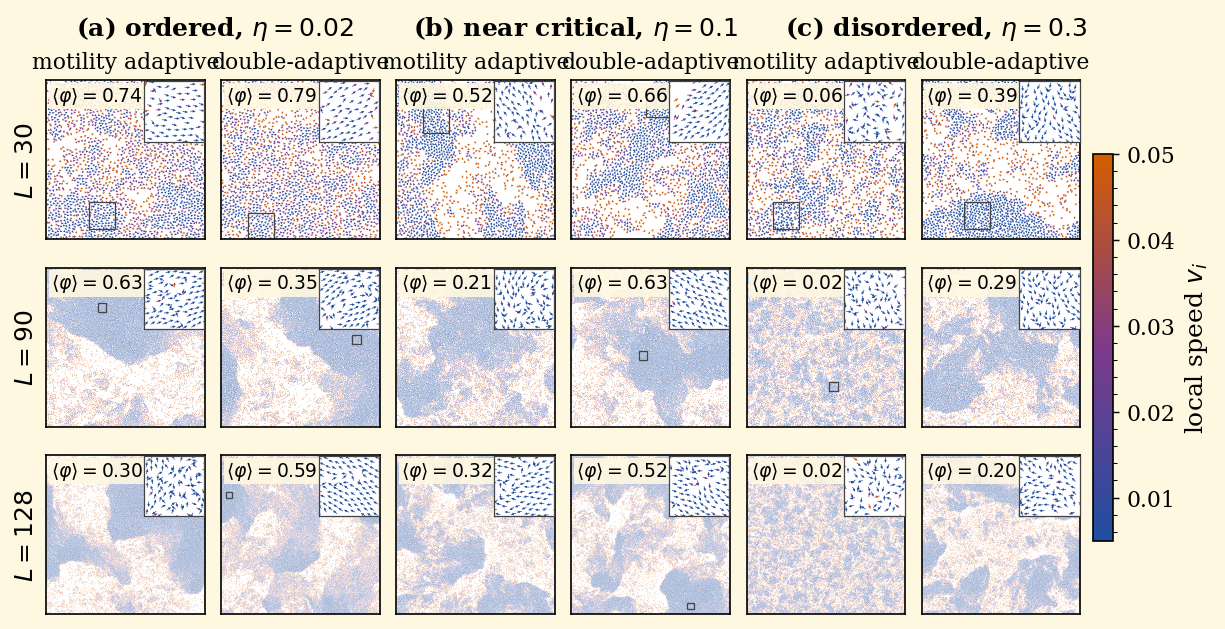
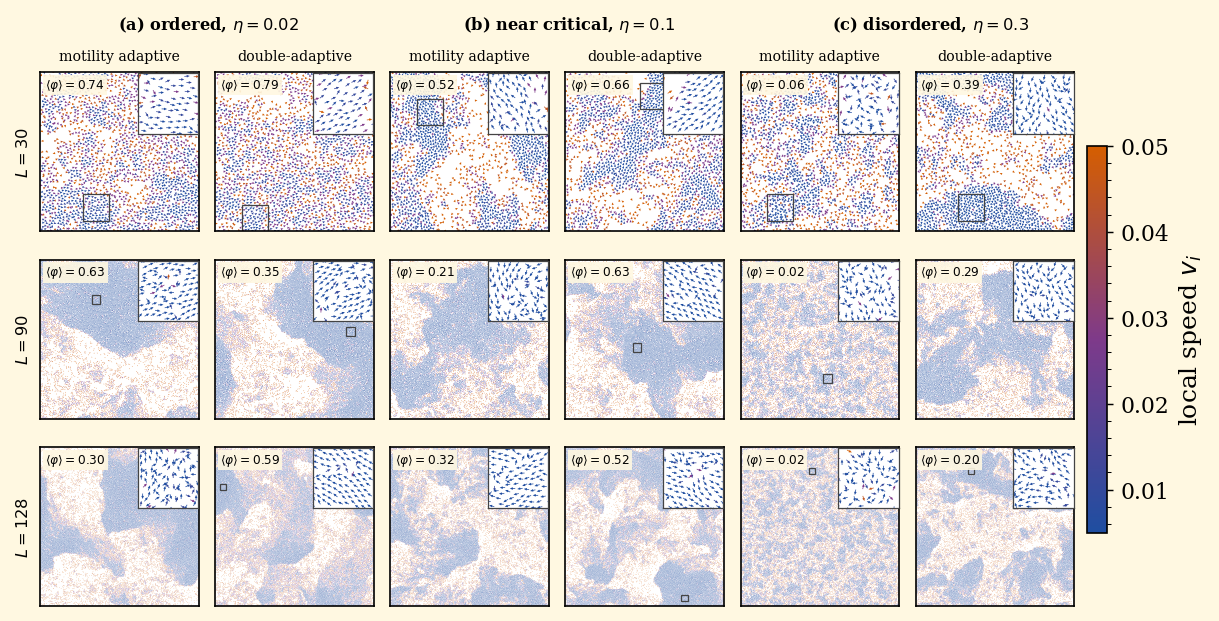
fig: Fig.2 shrink subpanel labels and subtitles 35%
Reduce the mode/L/<phi>/group-header label fonts by 35% (x0.65) from the
previous +50% sizes; the enlarged local-speed colorbar is kept.

diff --git a/src/make_figures.py b/src/make_figures.py
@@ -629,13 +629,13 @@ def fig_double_snapshot(npz_path: Path):
                     # Mode name on the top row only; size label on the
                     # leftmost column only (no repeats elsewhere).
                     if iL == 0:
-                        ax.set_title(_disp(mode_labels[im]), fontsize=10.5)
+                        ax.set_title(_disp(mode_labels[im]), fontsize=6.8)
                     if col == 0:
-                        ax.set_ylabel(fr"$L = {int(L)}$", fontsize=12)
+                        ax.set_ylabel(fr"$L = {int(L)}$", fontsize=7.8)
                     ax.text(0.03, 0.97,
                             fr"$\langle\varphi\rangle="
                             fr"{phi[iL, im, ic]:.2f}$",
-                            transform=ax.transAxes, fontsize=9,
+                            transform=ax.transAxes, fontsize=5.85,
                             fontweight="bold", ha="left", va="top",
                             bbox=dict(facecolor=style.CREAM, alpha=0.9,
                                       edgecolor="none", pad=1))
@@ -649,7 +649,7 @@ def fig_double_snapshot(npz_path: Path):
             fig.text(0.5 * (p_l.x0 + p_r.x1), p_l.y1 + 0.055,
                      fr"({chr(97 + jc)}) {_disp(case_labels[ic])}, "
                      fr"$\eta={eta[ic]:g}$",
-                     ha="center", va="bottom", fontsize=12,
+                     ha="center", va="bottom", fontsize=7.8,
                      fontweight="bold")
         cbar = fig.colorbar(last_q, ax=axes, orientation="vertical",
                             fraction=0.018, pad=0.012)